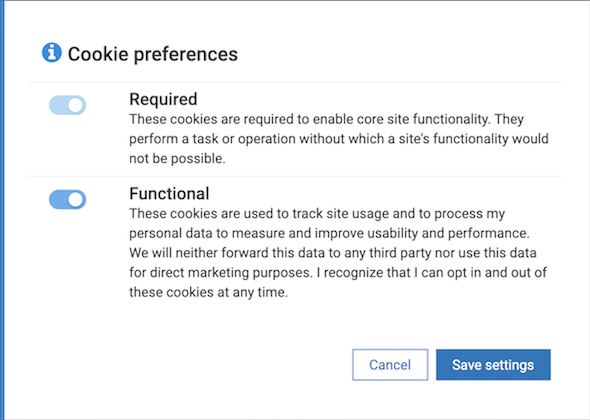
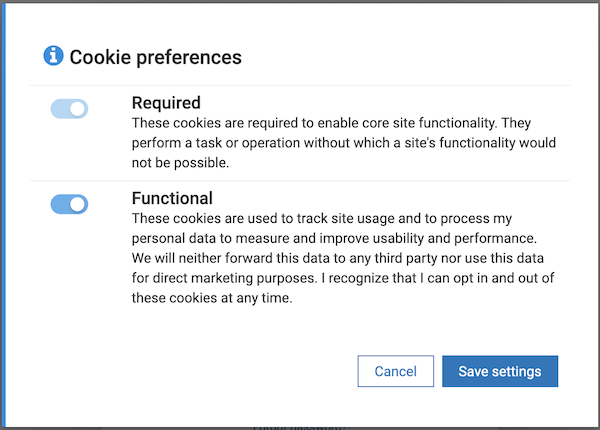
modified text and screenshot

diff --git a/content/users-guide/getting-started-bundle/accessing-cumulocity-platform.md b/content/users-guide/getting-started-bundle/accessing-cumulocity-platform.md
@@ -61,7 +61,7 @@ When you log into the Cumulocity IoT platform for the first time, you will see a
 * Click **Privacy policy** to open the [Software AG privacy statement](https://www.softwareag.com/en_corporate/privacy.html) with details on the Software AG privacy policy.
 * Click **Preferences** to select your individual cookie preferences:
 	* **Required** - Required to enable core site functionality. They perform a task or operation without which a site's functionality would not be possible. Required cookies cannot be disabled.
-	* **Functional** - Used to track site usage and to process personal data to measure and improve usability and performance.
+	* **Functional** - Used to track site usage and to process personal data to measure and improve usability and performance. Functional cookies must be actively enabled by the user.
 <br>
     <img src="/images/users-guide/getting-started/getting-started-cookie-selection.png" alt="Login prompt">
 <br>
